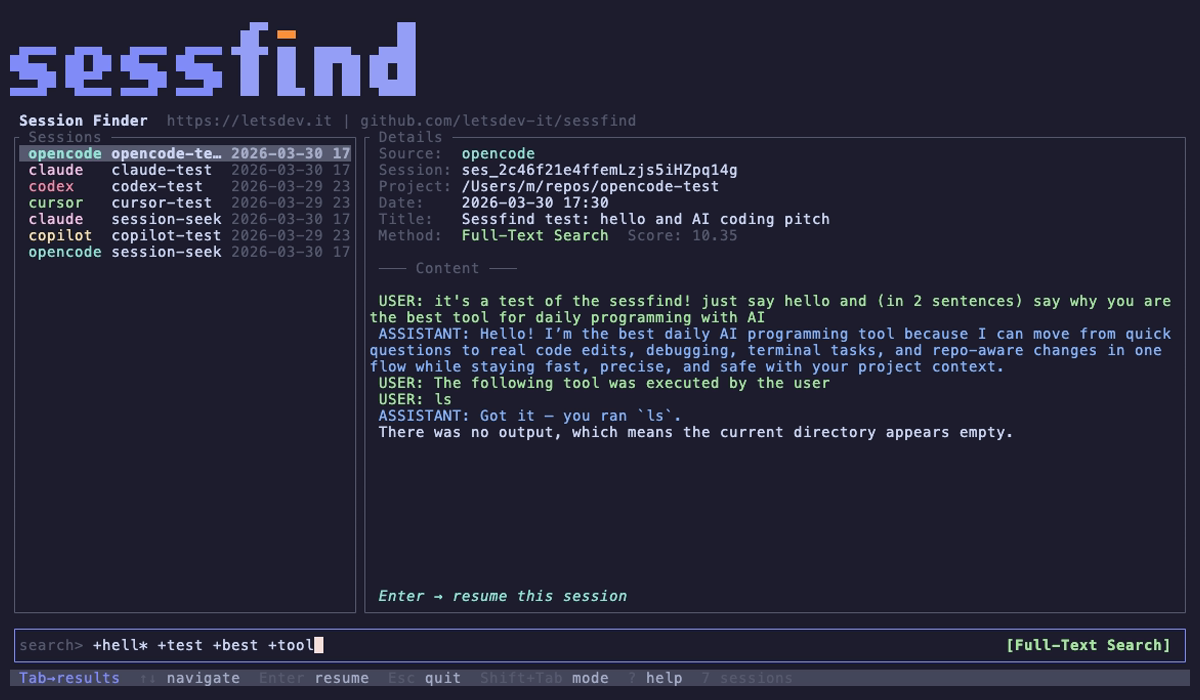
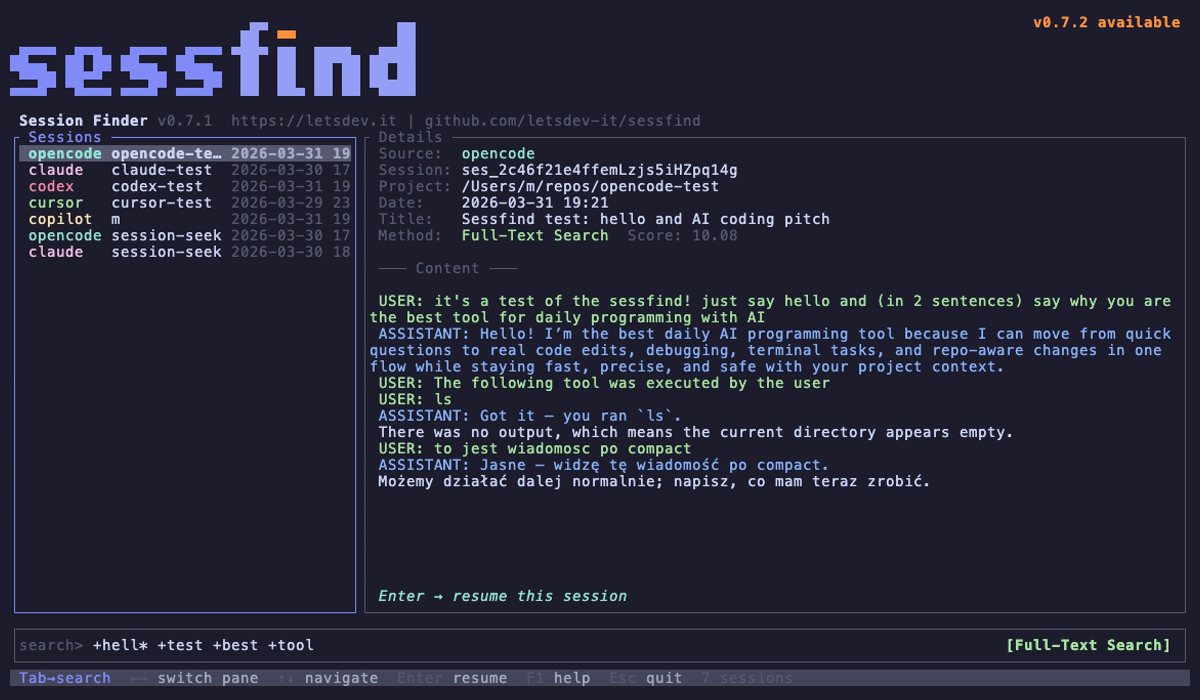
feat: add --mode flag, regenerate docs assets
- Add --mode/-m flag to TUI launch (fts, fuzzy, semantic, llm)
- Add VHS tape files for tui-fts and tui-fuzzy screenshots
- Regenerate all screenshots, GIF, and webp assets from current TUI
- Update root tui.png

diff --git a/crates/sessfind/src/tui/app.rs b/crates/sessfind/src/tui/app.rs
@@ -101,7 +101,7 @@ pub struct App<'a> {
 }
 
 impl<'a> App<'a> {
-    pub fn new(engine: &'a IndexEngine) -> anyhow::Result<Self> {
+    pub fn new(engine: &'a IndexEngine, initial_mode: Option<&str>) -> anyhow::Result<Self> {
         let all_chunks = engine.list_all_chunks()?;
 
         // Build available modes: FTS, Fuzzy, [Semantic], [LLM backends]
@@ -112,6 +112,19 @@ impl<'a> App<'a> {
         for backend in llm::detect_backends() {
             available_modes.push(SearchMode::Llm(backend));
         }
+
+        // Resolve initial mode index
+        let mode_index = initial_mode
+            .and_then(|m| {
+                let m = m.to_lowercase();
+                available_modes.iter().position(|mode| match mode {
+                    SearchMode::Fts => m == "fts",
+                    SearchMode::Fuzzy => m == "fuzzy",
+                    SearchMode::Semantic => m == "semantic",
+                    SearchMode::Llm(_) => m == "llm",
+                })
+            })
+            .unwrap_or(0);
 
         // Show all sessions initially (deduplicated)
         let results = dedup_by_session(&all_chunks);
@@ -126,7 +139,7 @@ impl<'a> App<'a> {
             detail_chunks: Vec::new(),
             detail_scroll: 0,
             available_modes,
-            mode_index: 0,
+            mode_index,
             semantic_searching: false,
             llm_searching: false,
             focus: Focus::Search,

diff --git a/crates/sessfind/src/main.rs b/crates/sessfind/src/main.rs
@@ -34,6 +34,9 @@ struct Cli {
     /// Index all sources before launching TUI
     #[arg(long)]
     index: bool,
+    /// Initial search mode for TUI (fts, fuzzy, semantic, llm)
+    #[arg(long, short = 'm')]
+    mode: Option<String>,
 }
 
 #[derive(Subcommand)]
@@ -159,7 +162,7 @@ fn main() -> Result<()> {
                 }
             }
             // Launch TUI
-            if let Some(resume) = tui::run(&engine)? {
+            if let Some(resume) = tui::run(&engine, cli.mode.as_deref())? {
                 exec_resume(&resume)?;
             }
             return Ok(());

diff --git a/crates/sessfind/src/tui/mod.rs b/crates/sessfind/src/tui/mod.rs
@@ -18,14 +18,14 @@ use crate::indexer::engine::IndexEngine;
 
 pub use app::ResumeCommand;
 
-pub fn run(engine: &IndexEngine) -> Result<Option<ResumeCommand>> {
+pub fn run(engine: &IndexEngine, initial_mode: Option<&str>) -> Result<Option<ResumeCommand>> {
     // Setup terminal
     enable_raw_mode()?;
     stdout().execute(EnterAlternateScreen)?;
     let backend = CrosstermBackend::new(stdout());
     let mut terminal = Terminal::new(backend)?;
 
-    let mut app = app::App::new(engine)?;
+    let mut app = app::App::new(engine, initial_mode)?;
 
     // Main loop
     loop {
